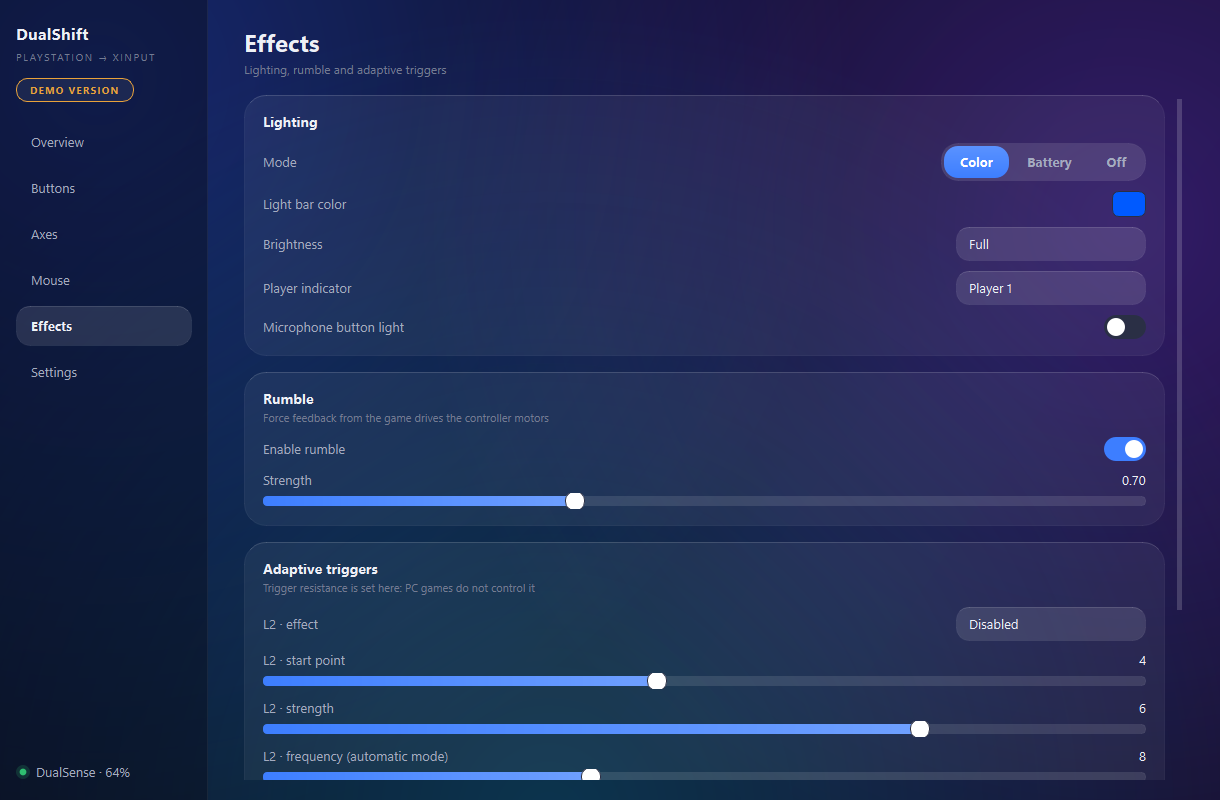
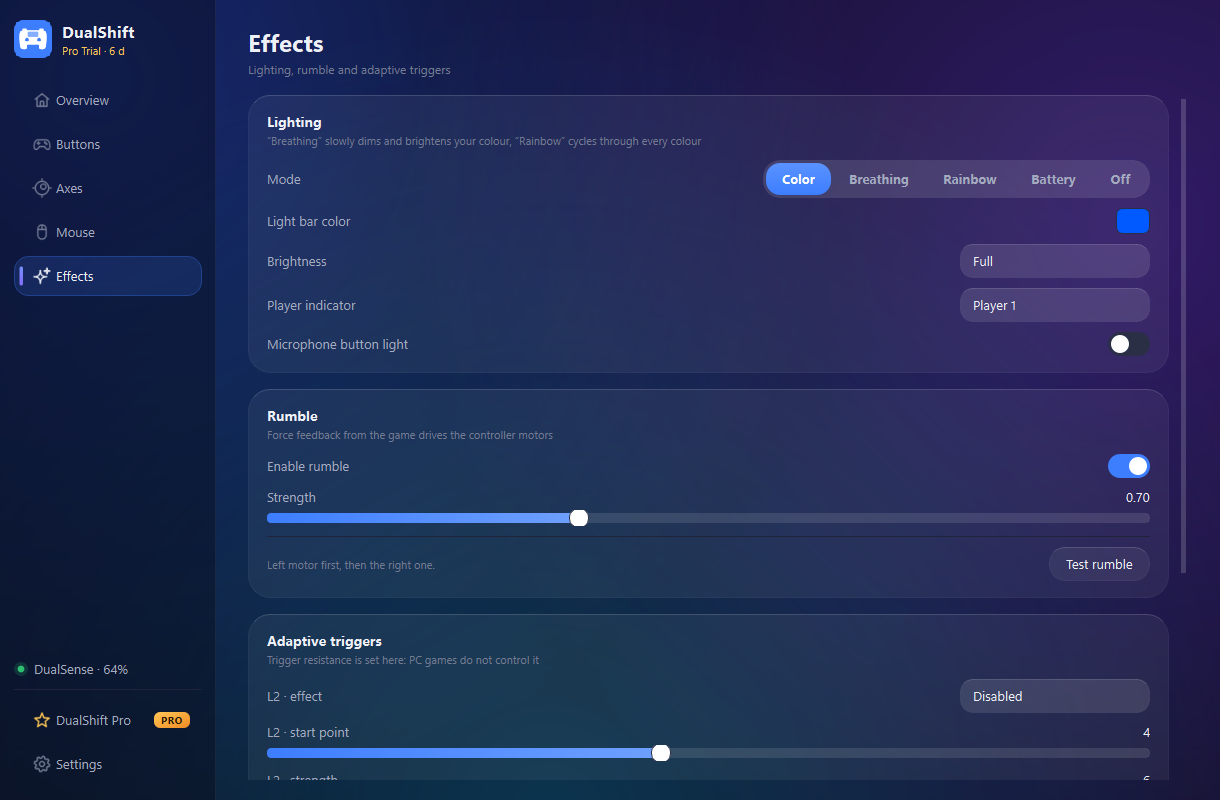
1.0.4: Free навсегда и DualShift Pro вместо демо, новый интерфейс, проверка дрейфа, эффекты подсветки

diff --git a/README.md b/README.md
@@ -4,9 +4,12 @@
 pad, so your DualSense or DualShock 4 works where it used to be ignored —
 with rumble, gyro aiming, adaptive triggers and your own light bar colour.
 
-### [⬇ Download the demo](../../releases/latest)
+### [⬇ Download DualShift](../../releases/latest)
 
-Free for 7 days, every feature unlocked. Windows 10 and 11, 64-bit.
+**Free forever** — the bridge, button mapping, gyro, adaptive triggers and the
+light bar never expire. **Pro** adds mouse mode, keyboard keys from the
+controller, turbo, the on-screen keyboard and per-game profiles: free for the
+first 7 days, then a one-time 500 Telegram Stars. Windows 10 and 11, 64-bit.
 
 [![Downloads](https://img.shields.io/github/downloads/dauletcrazyone-hub/dualshift/total?label=downloads&color=2FBF71)](../../releases/latest)
 
@@ -74,7 +77,15 @@ or switch to 3D and turn it around with the mouse.
 Windows shows a notification and the pad buzzes twice — so the match does not
 end with a dead controller.
 
-**14 interface languages**, light and dark theme.
+**Stick drift check.** Leave the sticks alone for three seconds: DualShift
+measures how much they drift at rest and sets the dead zones for you.
+
+**Light bar effects.** Besides a solid colour and a battery indicator, the
+light bar can breathe in your colour or run through a rainbow.
+
+**14 interface languages**, light and dark theme, smooth animations.
+
+![DualShift Pro](docs/10-pro.png)
 
 ![3D view](docs/06-overview-3d.png)
 
@@ -92,7 +103,7 @@ end with a dead controller.
 
 ## Installing
 
-1. Download `DualShift Demo Setup.exe` from
+1. Download `DualShift Setup.exe` from
    [Releases](../../releases/latest).
 2. Run it. Windows will show a **SmartScreen warning** — the installer is not
    code-signed yet. Click **More info → Run anyway**. (A signing certificate
@@ -102,7 +113,8 @@ end with a dead controller.
 4. Connect the controller, open DualShift, press **Start bridge**.
 
 Already have an older version? Install on top — your settings, profiles and
-trial stay where they are. When a new version comes out, the Overview page
+key stay where they are. If you had **DualShift Demo**, the installer replaces
+it with the regular version. When a new version comes out, the Overview page
 tells you and links to the download.
 
 To remove it: Windows Settings → Apps → DualShift → Uninstall. ViGEmBus is
@@ -116,22 +128,37 @@ with administrator rights; you can also turn on **Settings → Behaviour → Run
 as administrator**. Games protected by anti-cheat may block synthetic key
 presses altogether.
 
-## Demo and full version
+## Free and Pro
 
-The demo runs **7 days with every feature unlocked** — nothing is disabled,
-nothing is watermarked. After that it needs a key.
+| | Free | Pro |
+|---|:---:|:---:|
+| Games see your controller — Xbox 360 or DualShock 4 | ✓ | ✓ |
+| Button mapping, dead zones, response curves | ✓ | ✓ |
+| Gyro aiming, adaptive triggers | ✓ | ✓ |
+| Light bar with effects, rumble, live 3D model | ✓ | ✓ |
+| Stick drift check | ✓ | ✓ |
+| Mouse mode: cursor from a stick, the gyro or the touchpad | — | ✓ |
+| Keyboard keys from the controller: Alt+Tab, Esc, volume | — | ✓ |
+| On-screen keyboard | — | ✓ |
+| Turbo | — | ✓ |
+| Per-game profiles that switch automatically | — | ✓ |
+
+For the first **7 days** after installing, Pro is on in full. After that
+DualShift keeps working as Free — nothing stops, the Pro cards simply lock
+until you enter a key. **Pro is a one-time 500 Telegram Stars**, with updates
+and no end date.
 
 A key is issued for one computer: it is tied to the machine ID, so it keeps
 working after a reinstall of the program, but not on a second PC.
 
-**The quickest way to buy:** open **Settings → License** in the program and
-press **Buy a key** (when the trial runs out, the same button also appears on
-the Overview page). It opens [@DualShift_bot](https://t.me/DualShift_bot) in
-Telegram with your computer code already filled in — pay with Telegram Stars
-and the key arrives in the same chat, usually within seconds.
+**How to buy:** open the **DualShift Pro** page in the program and press
+**Buy**. It opens [@DualShift_bot](https://t.me/DualShift_bot) in Telegram
+with your computer code already filled in — pay with Telegram Stars and the
+key arrives in the same chat, usually within seconds. Paste it on the same
+page and press **Activate**.
 
 No Telegram? Write to **dauletcrazyone@gmail.com** with the computer code from
-Settings, and the key comes back by mail.
+the DualShift Pro page, and the key comes back by mail.
 
 ## Privacy
 
@@ -149,16 +176,16 @@ key for.
 
 ## Verifying the download
 
-`DualShift Demo Setup.exe` 1.0.3 — 51.5 MB
+`DualShift Setup.exe` 1.0.4 — 51.0 MB
 
 ```
-SHA-256  bd95174a2a3a094f8c48a5aeb067b95764a3fc2bb1639986fee638250be5af97
+SHA-256  7b11efb6840a9c73085034dd35ebe9f42c803f55db1bcd153b4bfe0861872c7b
 ```
 
 Check it in PowerShell before running:
 
 ```powershell
-Get-FileHash "$HOME\Downloads\DualShift Demo Setup.exe" -Algorithm SHA256
+Get-FileHash "$HOME\Downloads\DualShift Setup.exe" -Algorithm SHA256
 ```
 
 ## Questions, bugs, requests

diff --git a/docs/release-notes-1.0.4.md b/docs/release-notes-1.0.4.md
@@ -1,0 +1,29 @@
+**Free forever, Pro when you want more.** Windows 10 and 11, 64-bit.
+
+**What's new in 1.0.4**
+
+- **No more demo — DualShift is free.** The bridge, button mapping, dead zones, gyro aiming, adaptive triggers, the light bar and rumble work without any time limit.
+- **DualShift Pro.** Mouse mode, keyboard keys from the controller (Alt+Tab and the rest), the on-screen keyboard, turbo and per-game profiles are Pro. They are on for the first 7 days; after that DualShift keeps working as Free and the Pro cards lock until you enter a key. Pro is a one-time **500 Telegram Stars** — open the new **DualShift Pro** page and press **Buy**.
+- **A new look.** Icons in the sidebar, a highlight that slides to the page you pick, pages that fade in, and a ripple on every button you press. Gold marks everything that is Pro, and an **Administrator** badge shows when DualShift runs elevated.
+- **Stick drift check.** On the Axes page: leave the sticks alone for three seconds, and DualShift measures their drift at rest and sets the dead zones for you.
+- **Light bar effects.** *Breathing* slowly dims and brightens your colour, *Rainbow* cycles through every colour.
+
+Keys bought earlier stay valid and unlock Pro.
+
+**Installing**
+
+Run `DualShift Setup.exe`. Windows shows a SmartScreen warning — the installer is not code-signed yet: **More info → Run anyway**. Agree to install the bundled ViGEmBus driver when the installer offers it; without it Windows cannot create the virtual controller.
+
+Already have an earlier version? Install on top — your settings, profiles and key stay. If you had **DualShift Demo**, the installer removes it and puts the regular version in its place.
+
+**Verify the download**
+
[1 lines of base64/hex data omitted]
+
+```powershell
+Get-FileHash "$HOME\Downloads\DualShift Setup.exe" -Algorithm SHA256
+```
+
+3D model: "Playstation 5 Dualsense" by AHarmlessPotato (Sketchfab), CC BY 4.0, modified.
+
+Bugs and questions — open an Issue. Please say which Windows version and controller you have, and whether it is connected by USB or Bluetooth.

diff --git a/TERMS.md b/TERMS.md
@@ -1,7 +1,8 @@
 # Terms of use
 
-DualShift is proprietary software. The demo build is free to use for
-evaluation for 7 days on one computer; after that a key is required.
+DualShift is proprietary software. The free features may be used without a
+time limit. The Pro features are included for 7 days after installation and
+after that require a key, which is issued for one computer.
 
 You may copy and pass on the **unmodified** installer as downloaded from this
 repository's Releases. You may not sell it, repackage it, bundle it with
